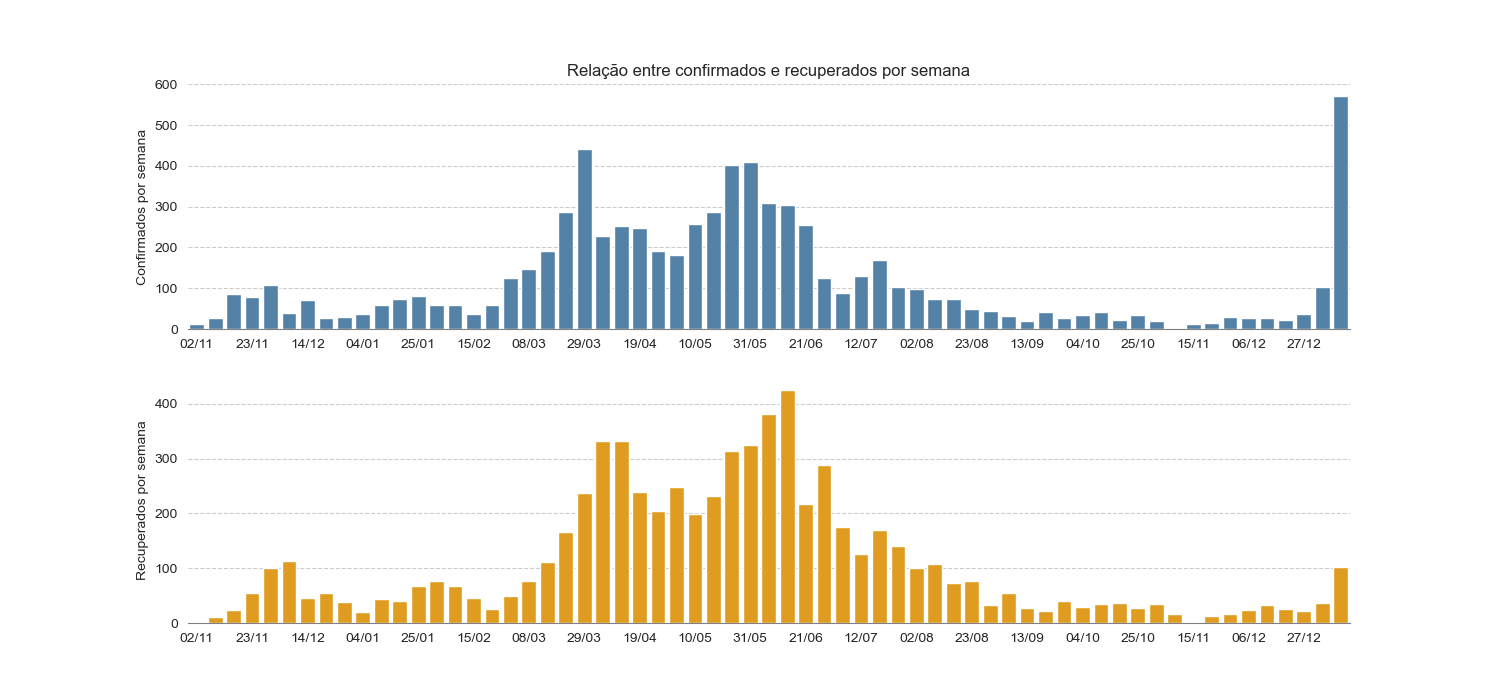
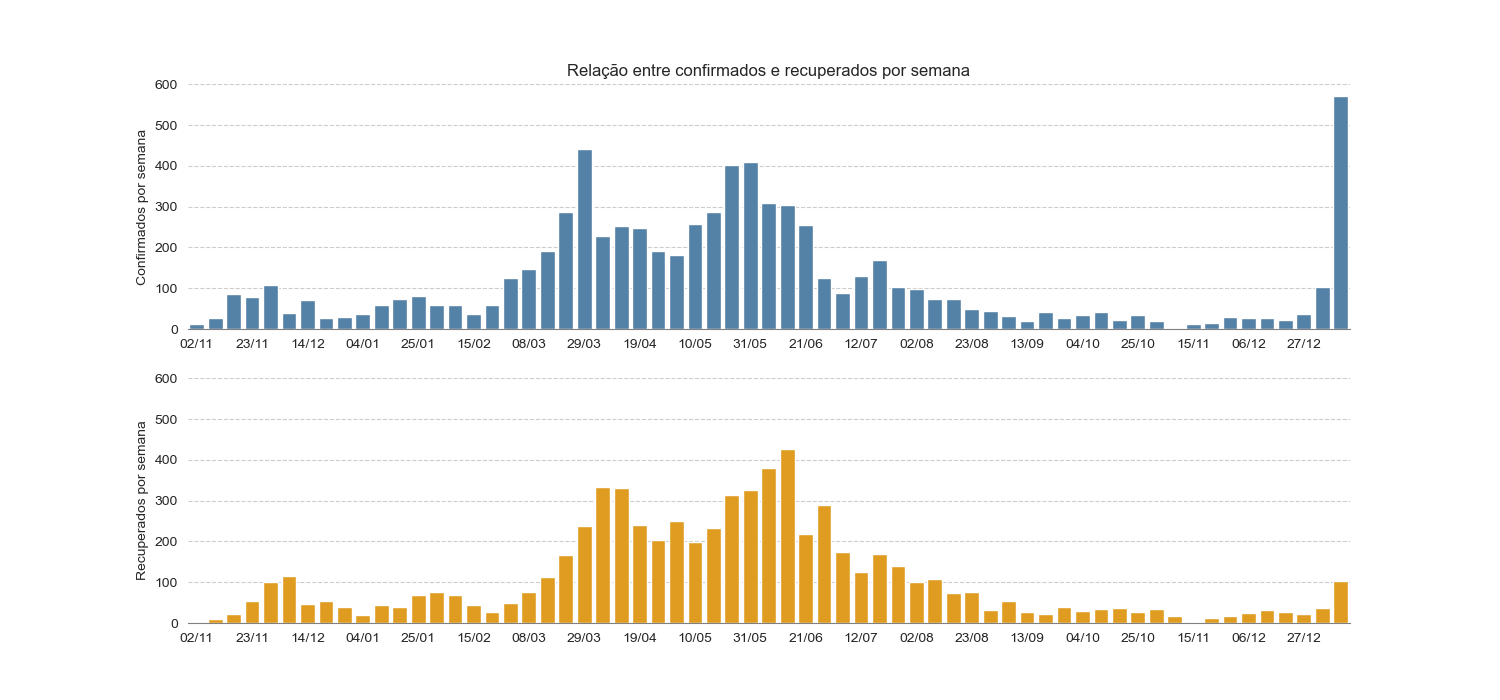
change chart10

diff --git a/src/charts.py b/src/charts.py
@@ -198,7 +198,7 @@ def chart09_evolucao_obitos_mes(frame, outputfolder=out, filename='09-evolucao-o
 def chart10_novos_casos_recuperacoes_semanal(frame, outputfolder=out, filename='10-relacao-novos-casos-recuperados-semanal.png'):
     df2 = frame.resample('W-MON').sum()['2020-11':]
 
-    figure, (ax1, ax2) = plt.subplots(2, 1, figsize=(15, 7), sharex=False)
+    figure, (ax1, ax2) = plt.subplots(2, 1, figsize=(15, 7), sharey=True)
     ax1.set_title("Relação entre confirmados e recuperados por semana")
 
     loc = plticker.MultipleLocator(base=3.0)
